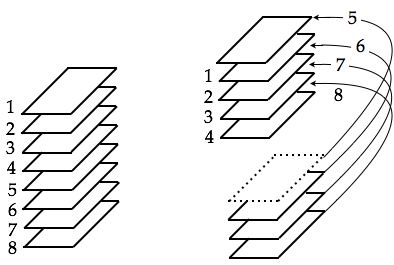
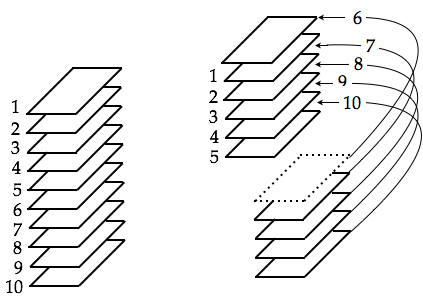
update MongeShuffle

Changed region(s): [[0.4873, 0.0302, 1.0, 0.9962], [0.0, 0.2113, 0.3046, 0.966], [0.7005, 0.634, 0.731, 0.6642]]

diff --git a/COMBINATORICS-PROBABILITY.tex b/COMBINATORICS-PROBABILITY.tex
@@ -399,11 +399,11 @@ throughout our journey are (literally!) tailor-made for this genre of selection 
 
 \begin{prop}
 \label{thm:no-combination}
-The number of ways of selecting $m$ elements from a set of $n \geq m$ elements, while ignoring the order in which the $m$ elements were selected, is $\displaystyle {n \choose m}$.
+The number of ways of selecting $m$ elements from a set of $n \geq m$ elements, while ignoring the order in which the $m>0$ elements were selected, is $\displaystyle {n \choose m}$.
 \end{prop}
 
 \begin{proof}
-The number of {\em ordered} ways of selecting $m$ elements from a set of $n \geq m$ elements is 
+The number of {\em ordered} ways of selecting $m>0$ elements from a set of $n \geq m$ elements is 
 \begin{equation}
 \label{eq:combination}
 n \times (n-1) \times \cdots \times (n-m+1) \ = \ \frac{n!}{(n-m)!}
@@ -1307,7 +1307,7 @@ then for each $i \in \Sigma$, $f_S(i) = i$.
 
 \medskip
 
-Note that $f_S(s_1) + f_S(s_2) + \cdots + f_S(s_m) \ = \ m$, where $|\Sigma| = m$.
+Note that when $|\Sigma| = m$, we have $f_S(s_1) + f_S(s_2) + \cdots + f_S(s_m) \ = \ | S |$.
 
 \medskip
 
@@ -1415,7 +1415,7 @@ Regarding ``denseness":
 Consider the following $2n$-element sequence $S_1$ chosen from the sample space $\Sigma_1 = \{1, 2, \ldots k\}$.
 \[ S_1 = \langle 1, 1, \ldots, 1, k, \ldots, k, k \rangle \]
 where there are $n$ occurrences of $1$ and $n$ occurrences of $k$.  One would imagine that any analysis of an experimental setting that yielded the sequence $S_1$ of outcomes would {\em prominently} mention the sequence's sparseness---the fact that all outcomes are at the extremes of their range.  The arithmetic mean
-\[  \mbox{\sc mean}(S_1) \ = \ \frac{2(k+1)n}{4n} \ = \ {k+1 \over 2} \]
+\[  \mbox{\sc mean}(S_1) \ = \ \frac{(k+1)n}{2n} \ = \ {k+1 \over 2} \]
 gives no information other than the ``center of gravity" of $S_1$.
 
 \medskip\item
@@ -1532,7 +1532,7 @@ Two other single-number ``summarizations" have garnered support in specialist co
 \index{mode} \index{{\sc mode}($S$)}
 
 \noindent
-If there is a single element $s \in S$ whose frequency $f_S(s)$ is the maximum among all frequencies $f_S(x)$, then that element is called the {\em mode} of sequence $S$ and is denoted {\sc mode}($S$).  The mode is typically said not to exist for sequences that have multiple maxima.
+If there is a single element $s_i \in S$ whose frequency $f_S(s_i)$ is the maximum among all frequencies $f_S(x)$, then that element is called the {\em mode} of sequence $S$ and is denoted {\sc mode}($S$).  The mode is typically said not to exist for sequences that have multiple maxima.
 
 \medskip
 
@@ -1540,7 +1540,7 @@ If there is a single element $s \in S$ whose frequency $f_S(s)$ is the maximum a
 
 \noindent
 The {\it geometric mean} of an $n$-element sequence $S$ is a weighted {\em product} of $S$'s elements.  As with the arithmetic mean, the geometric mean is defined in terms of $S$'s frequency function $f_S$:
-\[ \mbox{\sc geometric-mean}(S) \ \eqdef \  \left(\prod_{s \in S} \ s^{f_S(s)} \right)^{1/n} \]
+\[ \mbox{\sc geometric-mean}(S) \ \eqdef \  \left(\prod_{s_i \in S} \ s_i^{f_S(s_i)} \right)^{1/n} \]
 A bit of arithmetic verifies that the geometric mean is defined by the following property:
 
 \smallskip
@@ -2074,7 +2074,14 @@ The Law and the Central Limit Theorem make similar demands on their inputs.
 
 \index{von Bielfield, Jakob} \index{Bernoulli, Jacques (Latin: Jacobi)} \index{Bernoulli, Nicholas}
 
+\noindent \fbox{
+\begin{minipage}{0.96\textwidth}
+{\bf Historical note}.
+
+\smallskip
 Much of our knowledge about the early history of the Law is due to the 1767 book on statistics by the prolific German writer Jakob von Bielfeld.  The Law first appears as a theorem in the 1713 book \cite{Bernoulli} by the Swiss mathematician Jacques (Latin: Jacobi) Bernoulli.  Because of Bernoulli's death, this work was completed by his nephew Nicholas, and the book was published posthumously (the notation {\it ``opus posthumum"} in the citation). 
+\end{minipage}
+}
 
 \medskip
 
@@ -2291,65 +2298,66 @@ Since we are interested only in means rather than higher moments of the distribu
 We choose a confidence level $c$, which would give one access to the desired formal statement.
 \end{itemize}
 
-\subsubsection{The $\chi^2$ test for multinomial distributions}
-\index{multinomial distributions}
-
-Probability theory and statistics do not restrict themselves to simple metrics or simple distributions.  Once one allows even moderately more sophisticated distributions, a whole range of important practical situations can be discussed and analyzed.
- \index{statistical tests!the $\chi^2$ test} 
-
-\medskip
-
-The {\it $\chi^2$ test} is a statistical test which allows one to test whether two sequences of values come from the same {\em multinomial distribution}---a generalization to many variables of the binomial distribution that we studied in Section~\ref{sec:binomial-distribution}.  In contrast to the $L^2$-distance measure that we used to analyze the Arbuthnot-Laplace question, we now discuss a more ambitious question, and, accordingly, invoke a stronger statistical test.
-
-\smallskip
-
-As before, we begin with two sequences that can be viewed as representing either $m$ trials of an experiment or $m$ sample values drawn from a given sample space:  There is the sequence 
-\[ \langle e_i \rangle_{i=1}^m \ \ \eqdef \ \ \langle e_1, e_2, \ldots, e_m \rangle \]
-of {\em expected} values and the  sequence
-\[ \langle o_i \rangle_{i=1}^m \ \ \eqdef \ \ \langle o_1, o_2, \ldots, o_m \rangle \]
-of {\em observed} values.  We seek to determine the probability that both sequences arise from sampled values from the same random variable.
-
-\smallskip
-
-The $\chi^2$ test measures the distance between sequences $\langle e_i \rangle_{i=1}^m$ and $\langle o_i \rangle_{i=1}^m$ via a calculation that can be viewed as the {\em relative error} incurred by trying to pass either of these sequences off as the other.  Specifically, the $\chi^2$ distance/error corresponding to these sequences is
-\[ \chi^2 \ = \ \sum_{i=1}^m \ \frac{(o_i- e_i)^2}{e_i} \]
-The $\chi^2$ test invokes an analysis of the relevant {\em multi}nomial distribution---analogous to our analysis of the {\em bi}nomial distribution---to calculate the probability that the observed and expected sequences come from the same multinomial distribution.
-
-\medskip
-
-We illustrate the domain of the test via a simple illustrative example that we excerpt from \cite{Hoel58}.
-
-\bigskip
-
-We roll a (six-sided, allegedly fair) die $60$ times.  We expect to see $10$ occurrences each of the six possible outcomes.  The $\chi^2$ test computes the distance between the following sequences:
-\[ \begin{array}{|l||c|c|c|c|c|c|}
-\hline
-\mbox{60 Rolls of a die}  &
-\mbox{Face } \#1 &
-\mbox{Face } \#2 &
-\mbox{Face } \#3 &
-\mbox{Face } \#4 &
-\mbox{Face } \#5 &
-\mbox{Face } \#6 \\
-\hline \hline 
-\mbox{Observed frequencies:}
-  & f_1 & f_2 & f_3 & f_4 & f_5 & f_6 \\
-\hline
-\mbox{Expected frequencies:}
-  & 10 & 10 & 10 & 10 & 10 & 10 \\
-\hline
-\end{array}
-\]
-The test then calculates the probability $p$ that the observed sequence, $\langle f_1$, $f_2$, $f_3$, $f_4$, $f_5$, $f_6 \rangle$ comes from the same multinomial distribution as does the expected sequence $\langle 10, 10, 10, 10, 10, 10 \rangle$. 
-
-\smallskip
-
-As usual, one selects a confidence level $c$, which is equal to $1-p$, and one announces that, to within the confidence level $c$, the observed sequence $\langle o_i \rangle_{i=1}^{60}$ does come from the same distribution as the expected sequence $\langle e_i \rangle_{i=1}^{60}$.
-
-\smallskip
-
-If the null hypothesis is not supported at the given confidence level, then this provides evidence that the rolled die is not fair!  In this way that our setting can be used in applications such as fault analysis and quality analysis.
-
+%
+%\subsubsection{The $\chi^2$ test for multinomial distributions}
+%\index{multinomial distributions}
+%
+%Probability theory and statistics do not restrict themselves to simple metrics or simple distributions.  Once one allows even moderately more sophisticated distributions, a whole range of important practical situations can be discussed and analyzed.
+% \index{statistical tests!the $\chi^2$ test} 
+%
+%\medskip
+%
+%The {\it $\chi^2$ test} is a statistical test which allows one to test whether two sequences of values come from the same {\em multinomial distribution}---a generalization to many variables of the binomial distribution that we studied in Section~\ref{sec:binomial-distribution}.  In contrast to the $L^2$-distance measure that we used to analyze the Arbuthnot-Laplace question, we now discuss a more ambitious question, and, accordingly, invoke a stronger statistical test.
+%
+%\smallskip
+%
+%As before, we begin with two sequences that can be viewed as representing either $m$ trials of an experiment or $m$ sample values drawn from a given sample space:  There is the sequence 
+%\[ \langle e_i \rangle_{i=1}^m \ \ \eqdef \ \ \langle e_1, e_2, \ldots, e_m \rangle \]
+%of {\em expected} values and the  sequence
+%\[ \langle o_i \rangle_{i=1}^m \ \ \eqdef \ \ \langle o_1, o_2, \ldots, o_m \rangle \]
+%of {\em observed} values.  We seek to determine the probability that both sequences arise from sampled values from the same random variable.
+%
+%\smallskip
+%
+%The $\chi^2$ test measures the distance between sequences $\langle e_i \rangle_{i=1}^m$ and $\langle o_i \rangle_{i=1}^m$ via a calculation that can be viewed as the {\em relative error} incurred by trying to pass either of these sequences off as the other.  Specifically, the $\chi^2$ distance/error corresponding to these sequences is
+%\[ \chi^2 \ = \ \sum_{i=1}^m \ \frac{(o_i- e_i)^2}{e_i} \]
+%The $\chi^2$ test invokes an analysis of the relevant {\em multi}nomial distribution---analogous to our analysis of the {\em bi}nomial distribution---to calculate the probability that the observed and expected sequences come from the same multinomial distribution.
+%
+%\medskip
+%
+%We illustrate the domain of the test via a simple illustrative example that we excerpt from \cite{Hoel58}.
+%
+%\bigskip
+%
+%We roll a (six-sided, allegedly fair) die $60$ times.  We expect to see $10$ occurrences each of the six possible outcomes.  The $\chi^2$ test computes the distance between the following sequences:
+%\[ \begin{array}{|l||c|c|c|c|c|c|}
+%\hline
+%\mbox{60 Rolls of a die}  &
+%\mbox{Face } \#1 &
+%\mbox{Face } \#2 &
+%\mbox{Face } \#3 &
+%\mbox{Face } \#4 &
+%\mbox{Face } \#5 &
+%\mbox{Face } \#6 \\
+%\hline \hline 
+%\mbox{Observed frequencies:}
+%  & f_1 & f_2 & f_3 & f_4 & f_5 & f_6 \\
+%\hline
+%\mbox{Expected frequencies:}
+%  & 10 & 10 & 10 & 10 & 10 & 10 \\
+%\hline
+%\end{array}
+%\]
+%The test then calculates the probability $p$ that the observed sequence, $\langle f_1$, $f_2$, $f_3$, $f_4$, $f_5$, $f_6 \rangle$ comes from the same multinomial distribution as does the expected sequence $\langle 10, 10, 10, 10, 10, 10 \rangle$. 
+%
+%\smallskip
+%
+%As usual, one selects a confidence level $c$, which is equal to $1-p$, and one announces that, to within the confidence level $c$, the observed sequence $\langle o_i \rangle_{i=1}^{60}$ does come from the same distribution as the expected sequence $\langle e_i \rangle_{i=1}^{60}$.
+%
+%\smallskip
+%
+%If the null hypothesis is not supported at the given confidence level, then this provides evidence that the rolled die is not fair!  In this way that our setting can be used in applications such as fault analysis and quality analysis.
+%
 
 \ignore{**************
 \subsection{Pointers to Advanced Topics}
@@ -2536,10 +2544,10 @@ We consider two ways of shuffling cards which are associated with the eighteenth
 
 \smallskip
 
-For both shuffle-techniques. we begin with a deck of $2n$ distinct cards.  We employ the running example of the following small deck, where $n=4$:
-\[ (1, \ 2, \ 3, \ 4, \ 5, \ 6, \ 7, \ 8) \]
+For both shuffle-techniques. we begin with a deck of $2n$ distinct cards.  We employ the running example of the following small deck, where $n=5$:
+\[ (1, \ 2, \ 3, \ 4, \ 5, \ 6, \ 7, \ 8, \  9, \ 10) \]
 For both shuffles of the cards, we cut the deck in the middle, to create two $n$-card decks:
-\[ (1, \ 2, \ 3, \ 4), \ (5, \ 6, \ 7, \ 8) \]
+\[ (1, \ 2, \ 3, \ 4, \ 5), \ (6, \ 7, \ 8, \ 9, \ 10) \]
 We then merge the two $n$-card decks to again obtain a single $2n$-card deck.  
 The two shuffles differ in their merging techniques.
 
@@ -2550,11 +2558,11 @@ The two shuffles differ in their merging techniques.
 
 The first shuffle, the \textit{riffle shuffle}, alternates the ``top" cards from the right-hand and left-hand $n$-card decks; see Fig~\ref{fig:suffleMonge}.  
 The merged deck has the form
-\[ (5, \ 1, \ 6, \ 2, \ 7, \ 3, \ 8, \ 4) \]
+\[ (6, \ 1, \ 7, \ 2, \ 8, \ 3, \ 9, \ 4, \ 10, \ 5) \]
 \begin{figure}[h]
 \begin{center}
         \includegraphics[scale=0.4]{FiguresArithmetic/suffleMongeBasic}
-        \caption{The riffle shuffle for eight cards ($n=4$)}
+        \caption{The riffle shuffle for ten cards ($n=5$)}
         \label{fig:suffleMonge}
 \end{center}
 \end{figure}
@@ -2564,23 +2572,47 @@ In the party-game incarnation of the riffle shuffle, you demonstrate the cut-the
 \smallskip
 
 Let's see what happens after several steps of this cut-then-merge process:
-\[ \begin{array}{ccccccccccccccccc}
-(1 & 2 & 3 & 4 & 5 & 6 & 7 & 8) & \rightarrow & (1 & 2 & 3 & 4) & (5 & 6 & 7 & 8) \\
- & & & & & & & & \swarrow & & & & & & & & \\
-(5 & 1 & 6 & 2 & 7 & 3 & 8 & 4) & \rightarrow & (5 & 1 & 6 & 2) & (7 & 3 & 8 & 4) \\
- & & & & & & & & \swarrow & & & & & & & & \\
-(7 & 5 & 3 & 1 & 8 & 6 & 4 & 2) &  \rightarrow& (7 & 5 & 3 & 1) & (8 & 6 & 4 & 2) \\
- & & & & & & & & \swarrow & & & & & & & & \\
-(8 & 7 & 6 & 5 & 4 & 3 & 2 & 1) &  \rightarrow& (8 & 7 & 6 & 5) & (4 & 3 & 2 & 1) \\
- & & & & & & & & \swarrow & & & & & & & & \\
-(4 & 8 & 3 & 7 & 2 & 6 & 1 & 5) &  \rightarrow& (4 & 8 & 3 & 7) & (2 & 6 & 1 & 5) \\
- & & & & & & & & \swarrow & & & & & & & & \\
-(2 & 4 & 6 & 8 & 1 & 3 & 5 & 7) &  \rightarrow& (2 & 4 & 6 & 8) & (1 & 3 & 5 & 7) \\
- & & & & & & & & \swarrow & & & & & & & & \\
-(1 & 2 & 3 & 4 & 5 & 6 & 7 & 8)
+\[ \begin{array}{ccccccccccccccccccccc}
+(1 & 2 & 3 & 4 & 5 & 6 & 7 & 8 & 9 & 10) & \rightarrow & (1 & 2 & 3 & 4 & 5) & (6 & 7 & 8 & 9 & 10) \\
+ & & & & & & & & & & \swarrow & & & & & & & & & & \\
+(6 & 1 & 7 & 2 & 8 & 3 & 9 & 4 &10 & 5) & \rightarrow & (6 & 1 & 7 & 2 & 8) & (3 & 9 & 4 &10 & 5) \\
+ & & & & & & & & & & \swarrow & & & & & & & & & & \\
+(3 & 6 & 9 & 1 & 4 & 7 & 10 & 2 & 5 & 8) &  \rightarrow& (3 & 6 & 9 & 1 & 4) & (7 & 10 & 2 & 5 & 8) \\
+  & & & & & & & & & & \swarrow & & & & & & & & & & \\
+(7 & 3 & 10 & 6 & 2 & 9 & 5 & 1 & 8 & 4) &  \rightarrow& (7 & 3 & 10 & 6 & 2) & (9 & 5 & 1 & 8 & 4) \\
+  & & & & & & & & & & \swarrow & & & & & & & & & & \\
+(9 & 7 & 5 & 3 & 1 & 10 & 8 & 6 & 4 & 2) &  \rightarrow& (9 & 7 & 5 & 3 & 1) & (10 & 8 & 6 & 4 & 2) \\
+ & & & & & & & & & & \swarrow & & & & & & & & & & \\
+(10 & 9 & 8 & 7 & 6 & 5 & 4 & 3 & 2 & 1) &  \rightarrow& (10 & 9 & 8 & 7 & 6) & (5 & 4 & 3 & 2 & 1) \\
+ & & & & & & & & & & \swarrow & & & & & & & & & & \\
+ (5 & 10 & 4 & 9 & 3 & 8 & 2 & 7 & 1 & 6) &  \rightarrow&  (5 & 10 & 4 & 9 & 3) & (8 & 2 & 7 & 1 & 6) \\
+ & & & & & & & & & & \swarrow & & & & & & & & & & \\
+(8 & 5 & 2 & 10 & 7 & 4 & 1 & 9 & 6 & 3) &  \rightarrow& (8 & 5 & 2 & 10 & 7) & (4 & 1 & 9 & 6 & 3) \\
+ & & & & & & & & & & \swarrow & & & & & & & & & & \\
+ (4 & 8 & 1 & 5 & 9 & 2 & 6 & 10 & 3 & 7) &  \rightarrow&  (4 & 8 & 1 & 5 & 9) & (2 & 6 & 10 & 3 & 7) \\
+ & & & & & & & & & & \swarrow & & & & & & & & & & \\
+ (2 & 4 & 6 & 8 & 10 & 1 & 3 & 5 & 7 & 9) &  \rightarrow&  (2 & 4 & 6 & 8 & 10) & (1 & 3 & 5 & 7 & 9) \\
+ & & & & & & & & & & \swarrow & & & & & & & & & & \\
+(1 & 2 & 3 & 4 & 5 & 6 & 7 & 8 & 9 & 10)
 \end{array}
 \]
-So, this does not look too random!  After {\em three} (which, ``coincidentally", equals $n-1$) cut-then-merge steps, the deck has been reversed, and after $2n-1$ cut-and-merge steps, it has been replicated in its original order!
+%\[ \begin{array}{ccccccccccccccccc}
+%(1 & 2 & 3 & 4 & 5 & 6 & 7 & 8) & \rightarrow & (1 & 2 & 3 & 4) & (5 & 6 & 7 & 8) \\
+% & & & & & & & & \swarrow & & & & & & & & \\
+%(5 & 1 & 6 & 2 & 7 & 3 & 8 & 4) & \rightarrow & (5 & 1 & 6 & 2) & (7 & 3 & 8 & 4) \\
+% & & & & & & & & \swarrow & & & & & & & & \\
+%(7 & 5 & 3 & 1 & 8 & 6 & 4 & 2) &  \rightarrow& (7 & 5 & 3 & 1) & (8 & 6 & 4 & 2) \\
+% & & & & & & & & \swarrow & & & & & & & & \\
+%(8 & 7 & 6 & 5 & 4 & 3 & 2 & 1) &  \rightarrow& (8 & 7 & 6 & 5) & (4 & 3 & 2 & 1) \\
+% & & & & & & & & \swarrow & & & & & & & & \\
+%(4 & 8 & 3 & 7 & 2 & 6 & 1 & 5) &  \rightarrow& (4 & 8 & 3 & 7) & (2 & 6 & 1 & 5) \\
+% & & & & & & & & \swarrow & & & & & & & & \\
+%(2 & 4 & 6 & 8 & 1 & 3 & 5 & 7) &  \rightarrow& (2 & 4 & 6 & 8) & (1 & 3 & 5 & 7) \\
+% & & & & & & & & \swarrow & & & & & & & & \\
+%(1 & 2 & 3 & 4 & 5 & 6 & 7 & 8)
+%\end{array}
+%\]
+So, this does not look too random!  After {\em five} (which, ``coincidentally", equals $n$) cut-then-merge steps, the deck has been reversed, and after $2n$ cut-and-merge steps, it has been replicated in its original order!
 
 \smallskip
 
